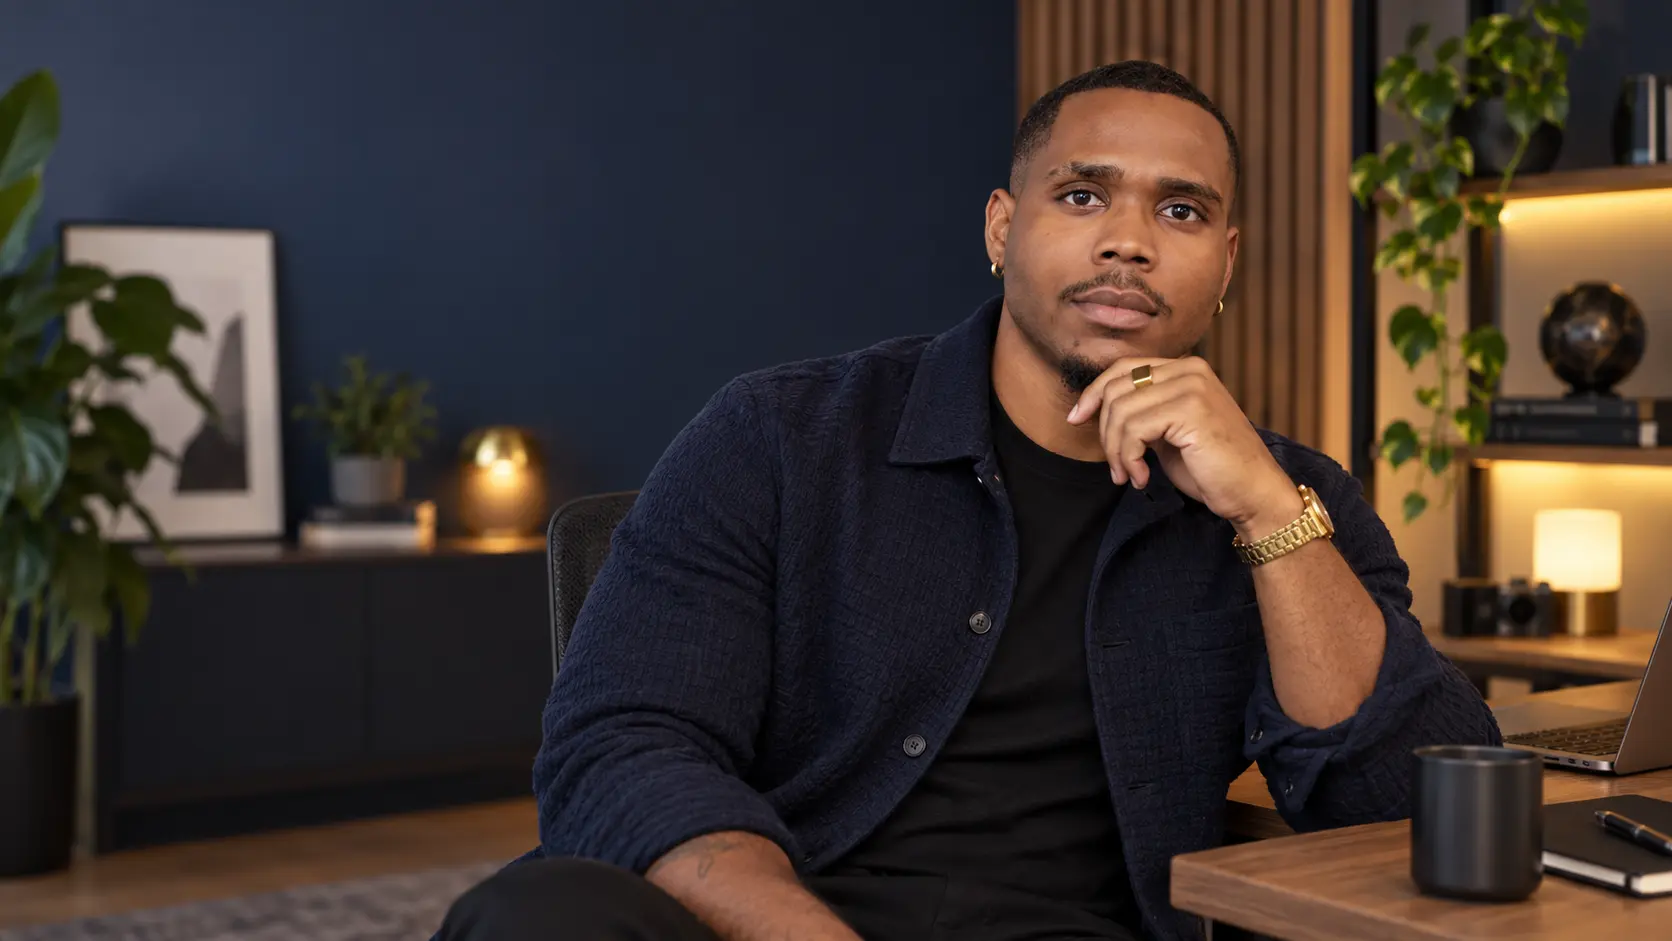
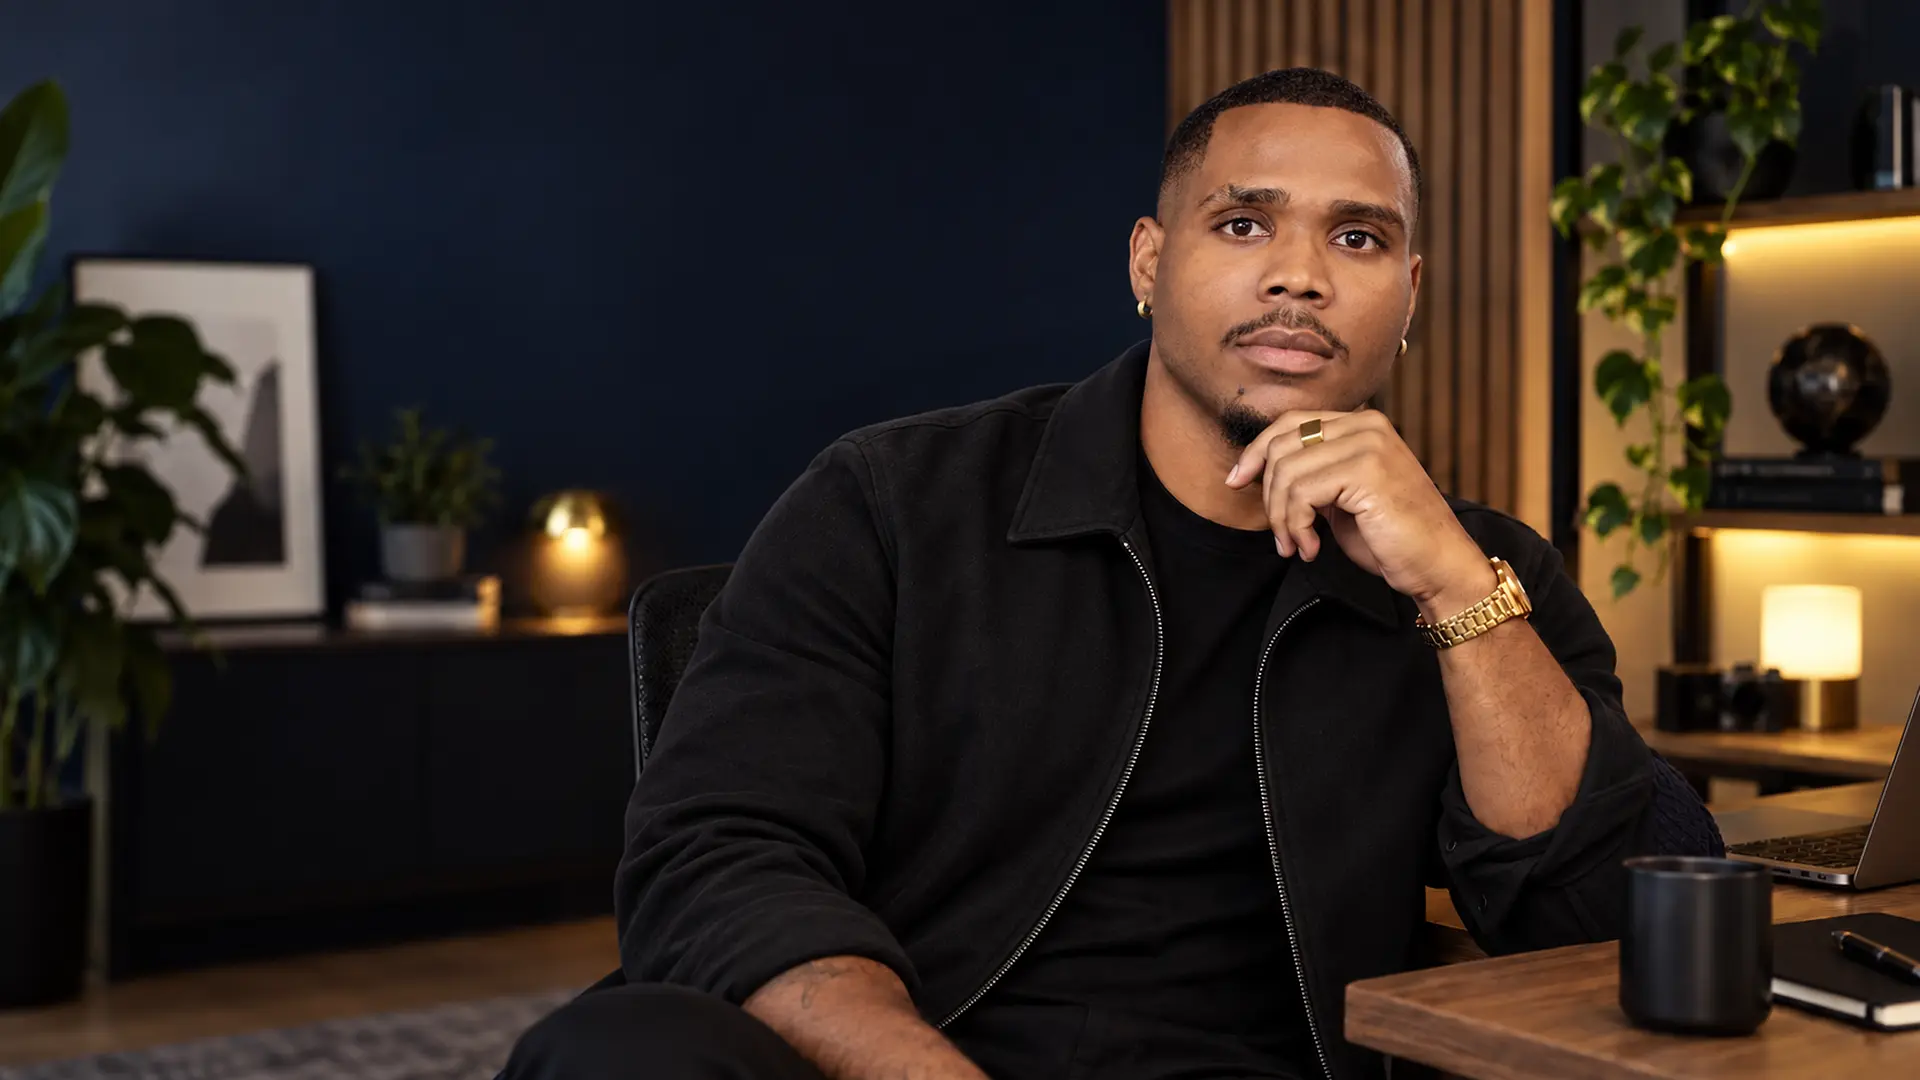
Deploy final responsive portfolio portraits

diff --git a/index.html b/index.html
@@ -20,9 +20,10 @@
   <link rel="icon" type="image/svg+xml" href="assets/img/favicon.svg">
   <link rel="icon" type="image/png" href="assets/img/favicon.png">
   <link rel="apple-touch-icon" href="assets/img/apple-touch-icon.png">
-  <link rel="preload" as="image" href="assets/img/emmanuel-hero.webp" fetchpriority="high">
+  <link rel="preload" as="image" href="assets/img/emmanuel-hero.webp" media="(min-width: 601px)" fetchpriority="high">
+  <link rel="preload" as="image" href="assets/img/emmanuel-hero-mobile.webp" media="(max-width: 600px)" fetchpriority="high">
   <link href="https://fonts.googleapis.com/css2?family=JetBrains+Mono:wght@400;500;700&family=Inter:wght@400;500;600;700&display=swap" rel="stylesheet">
-  <link href="assets/css/style.css?v=20260918-4" rel="stylesheet">
+  <link href="assets/css/style.css?v=20260918-5" rel="stylesheet">
 </head>
 <body>
   <canvas id="bg-particles" aria-hidden="true"></canvas>
@@ -59,14 +60,18 @@
 
   <main id="main">
     <section id="hero" class="hero">
-      <img
-        src="assets/img/emmanuel-hero.webp"
-        alt="Emmanuel Joshua in a modern workspace"
-        class="hero-media"
-        width="1672"
-        height="941"
-        fetchpriority="high"
-      >
+      <picture class="hero-picture">
+        <source media="(max-width: 600px)" srcset="assets/img/emmanuel-hero-mobile.webp">
+        <img
+          src="assets/img/emmanuel-hero.webp"
+          alt="Emmanuel Joshua in a modern workspace"
+          class="hero-media"
+          width="1920"
+          height="1080"
+          fetchpriority="high"
+          decoding="async"
+        >
+      </picture>
       <div class="container hero-content">
         <p class="prompt">emmanuel@dev:~$ whoami</p>
         <p class="mobile-eyebrow">Software Engineer <span aria-hidden="true">&middot;</span> AI Builder</p>
@@ -98,10 +103,12 @@
         <div class="about-flow">
           <img
             src="assets/img/emmanuel-about.webp"
+            srcset="assets/img/emmanuel-about-800.webp 800w, assets/img/emmanuel-about.webp 1600w"
+            sizes="(max-width: 600px) calc(100vw - 2.5rem), 200px"
             alt="Emmanuel Joshua, software engineer and AI product builder"
             class="about-photo"
-            width="1000"
-            height="1250"
+            width="1600"
+            height="2000"
             loading="lazy"
             decoding="async"
           >

diff --git a/assets/css/style.css b/assets/css/style.css
@@ -148,10 +148,12 @@ ul { list-style: none; }
     linear-gradient(90deg, rgba(10, 14, 21, 0.98) 0%, rgba(10, 14, 21, 0.91) 44%, rgba(10, 14, 21, 0.42) 72%, rgba(10, 14, 21, 0.12) 100%),
     linear-gradient(0deg, rgba(10, 14, 21, 0.82) 0%, transparent 36%);
 }
-.hero-media {
+.hero-picture {
   position: absolute;
   inset: 0;
   z-index: -2;
+}
+.hero-media {
   width: 100%;
   height: 100%;
   object-fit: cover;
@@ -213,9 +215,9 @@ ul { list-style: none; }
       linear-gradient(0deg, rgba(9, 14, 18, 0.9) 0%, rgba(9, 14, 18, 0.42) 48%, rgba(9, 14, 18, 0.08) 100%);
   }
   .hero-media {
-    object-position: 66% center;
-    opacity: 0.9;
-    filter: brightness(1.16) saturate(1.04) contrast(0.98);
+    object-position: center;
+    opacity: 0.94;
+    filter: brightness(1.04) saturate(1.02) contrast(1.01);
   }
   .hero-content { padding-right: 1.5rem; }
   .prompt, .hero-role-desktop, .hero-summary-desktop, .hero-proof, .desktop-intro, .hero-echo-cta { display: none; }
